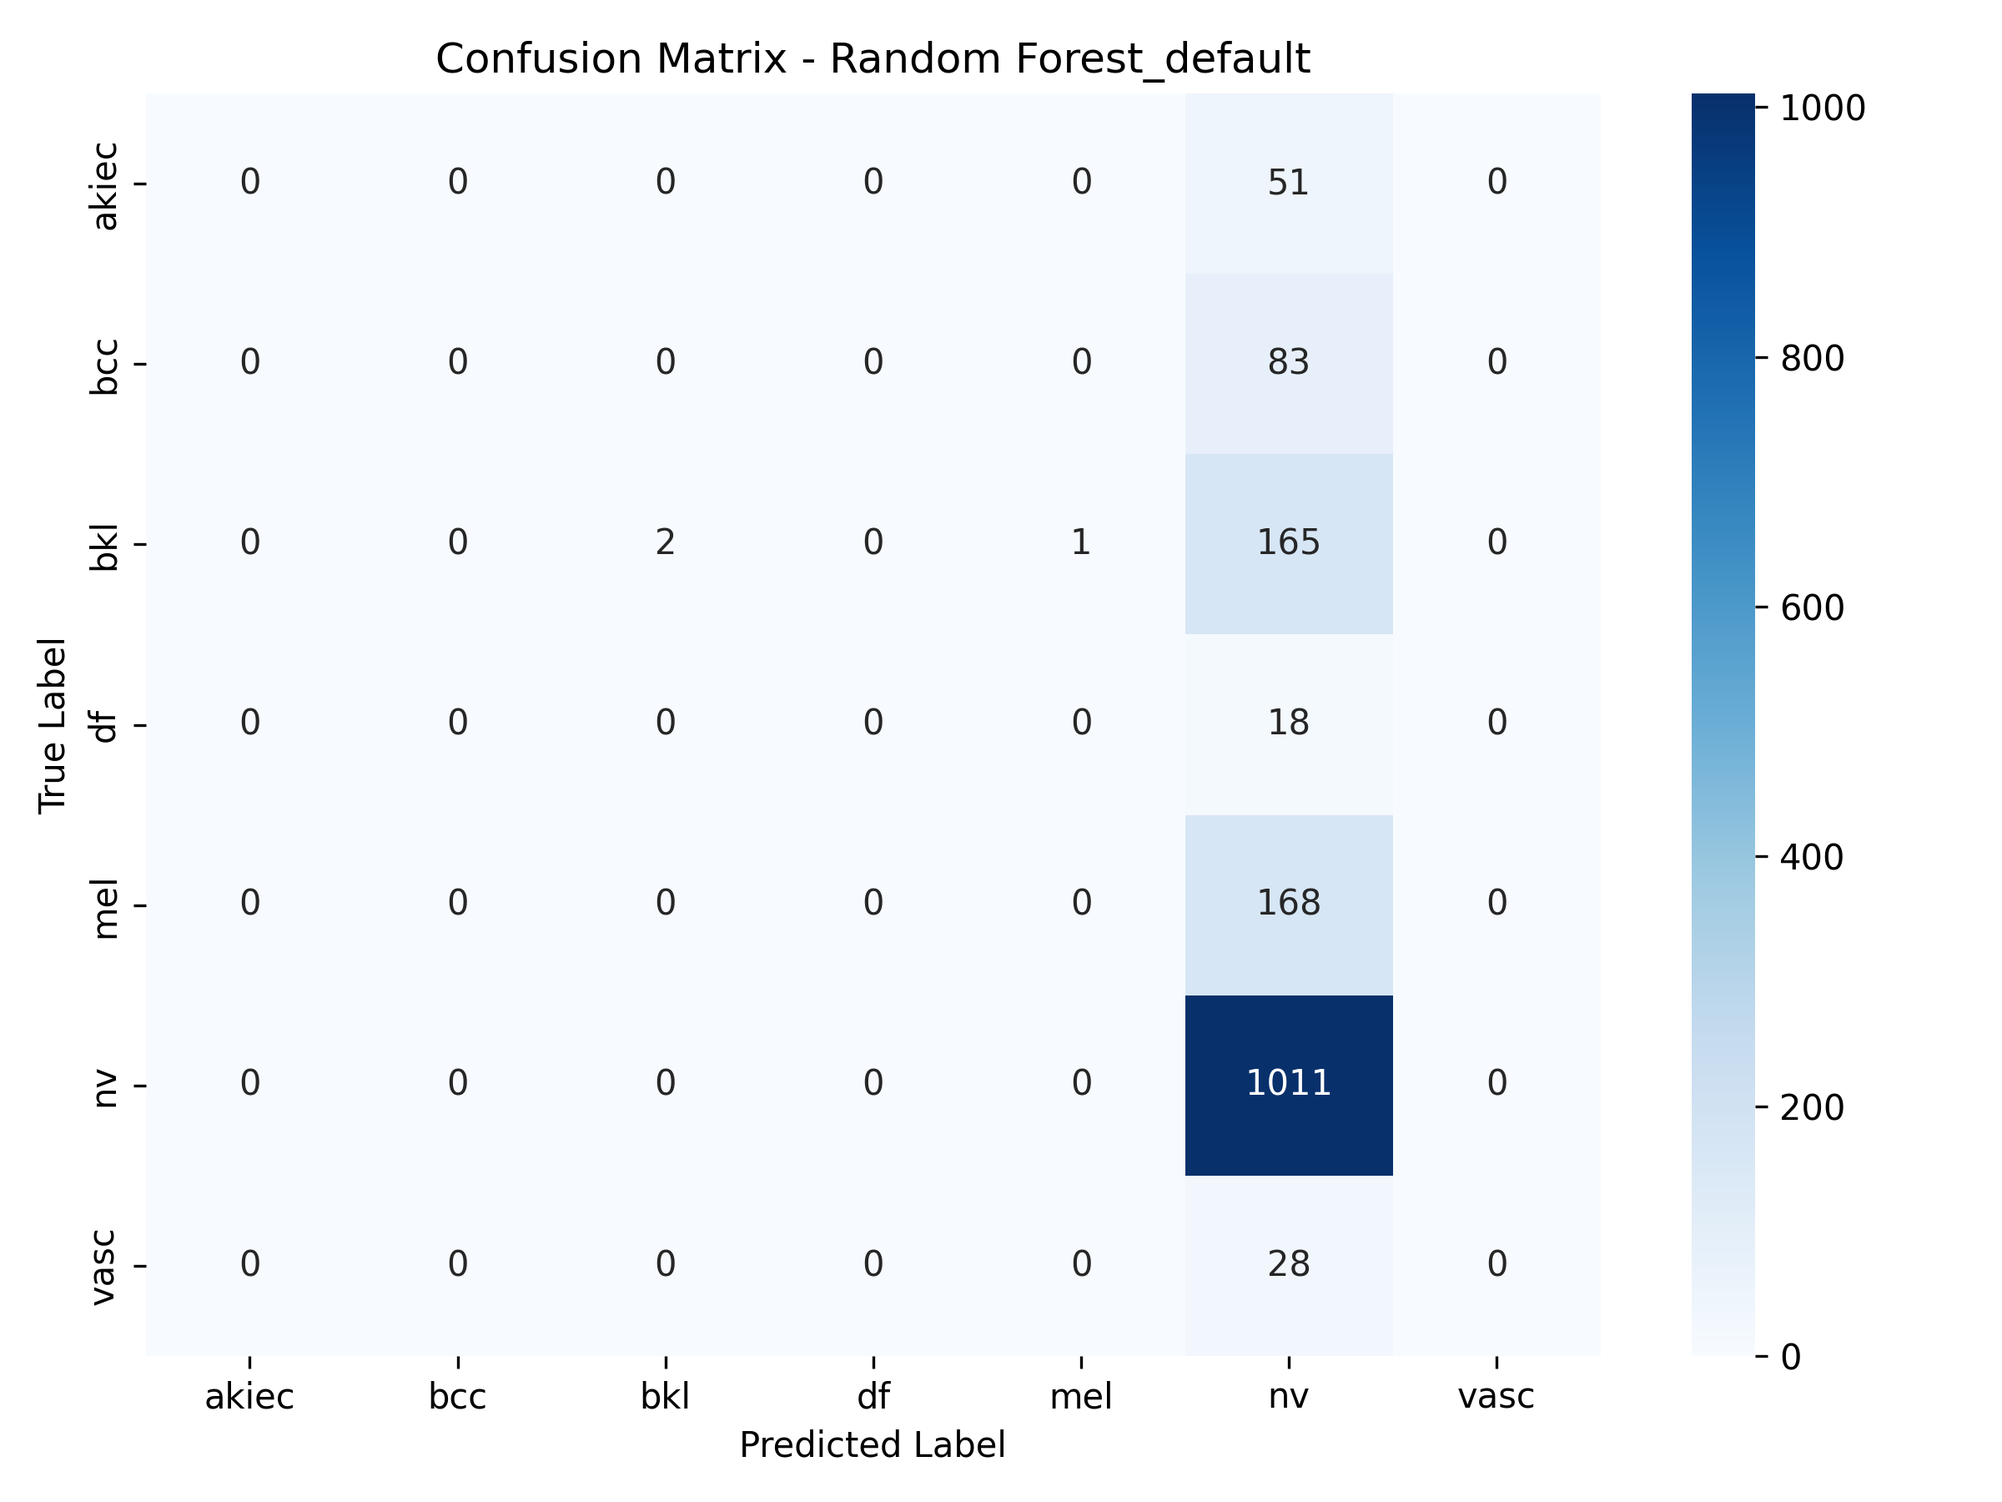
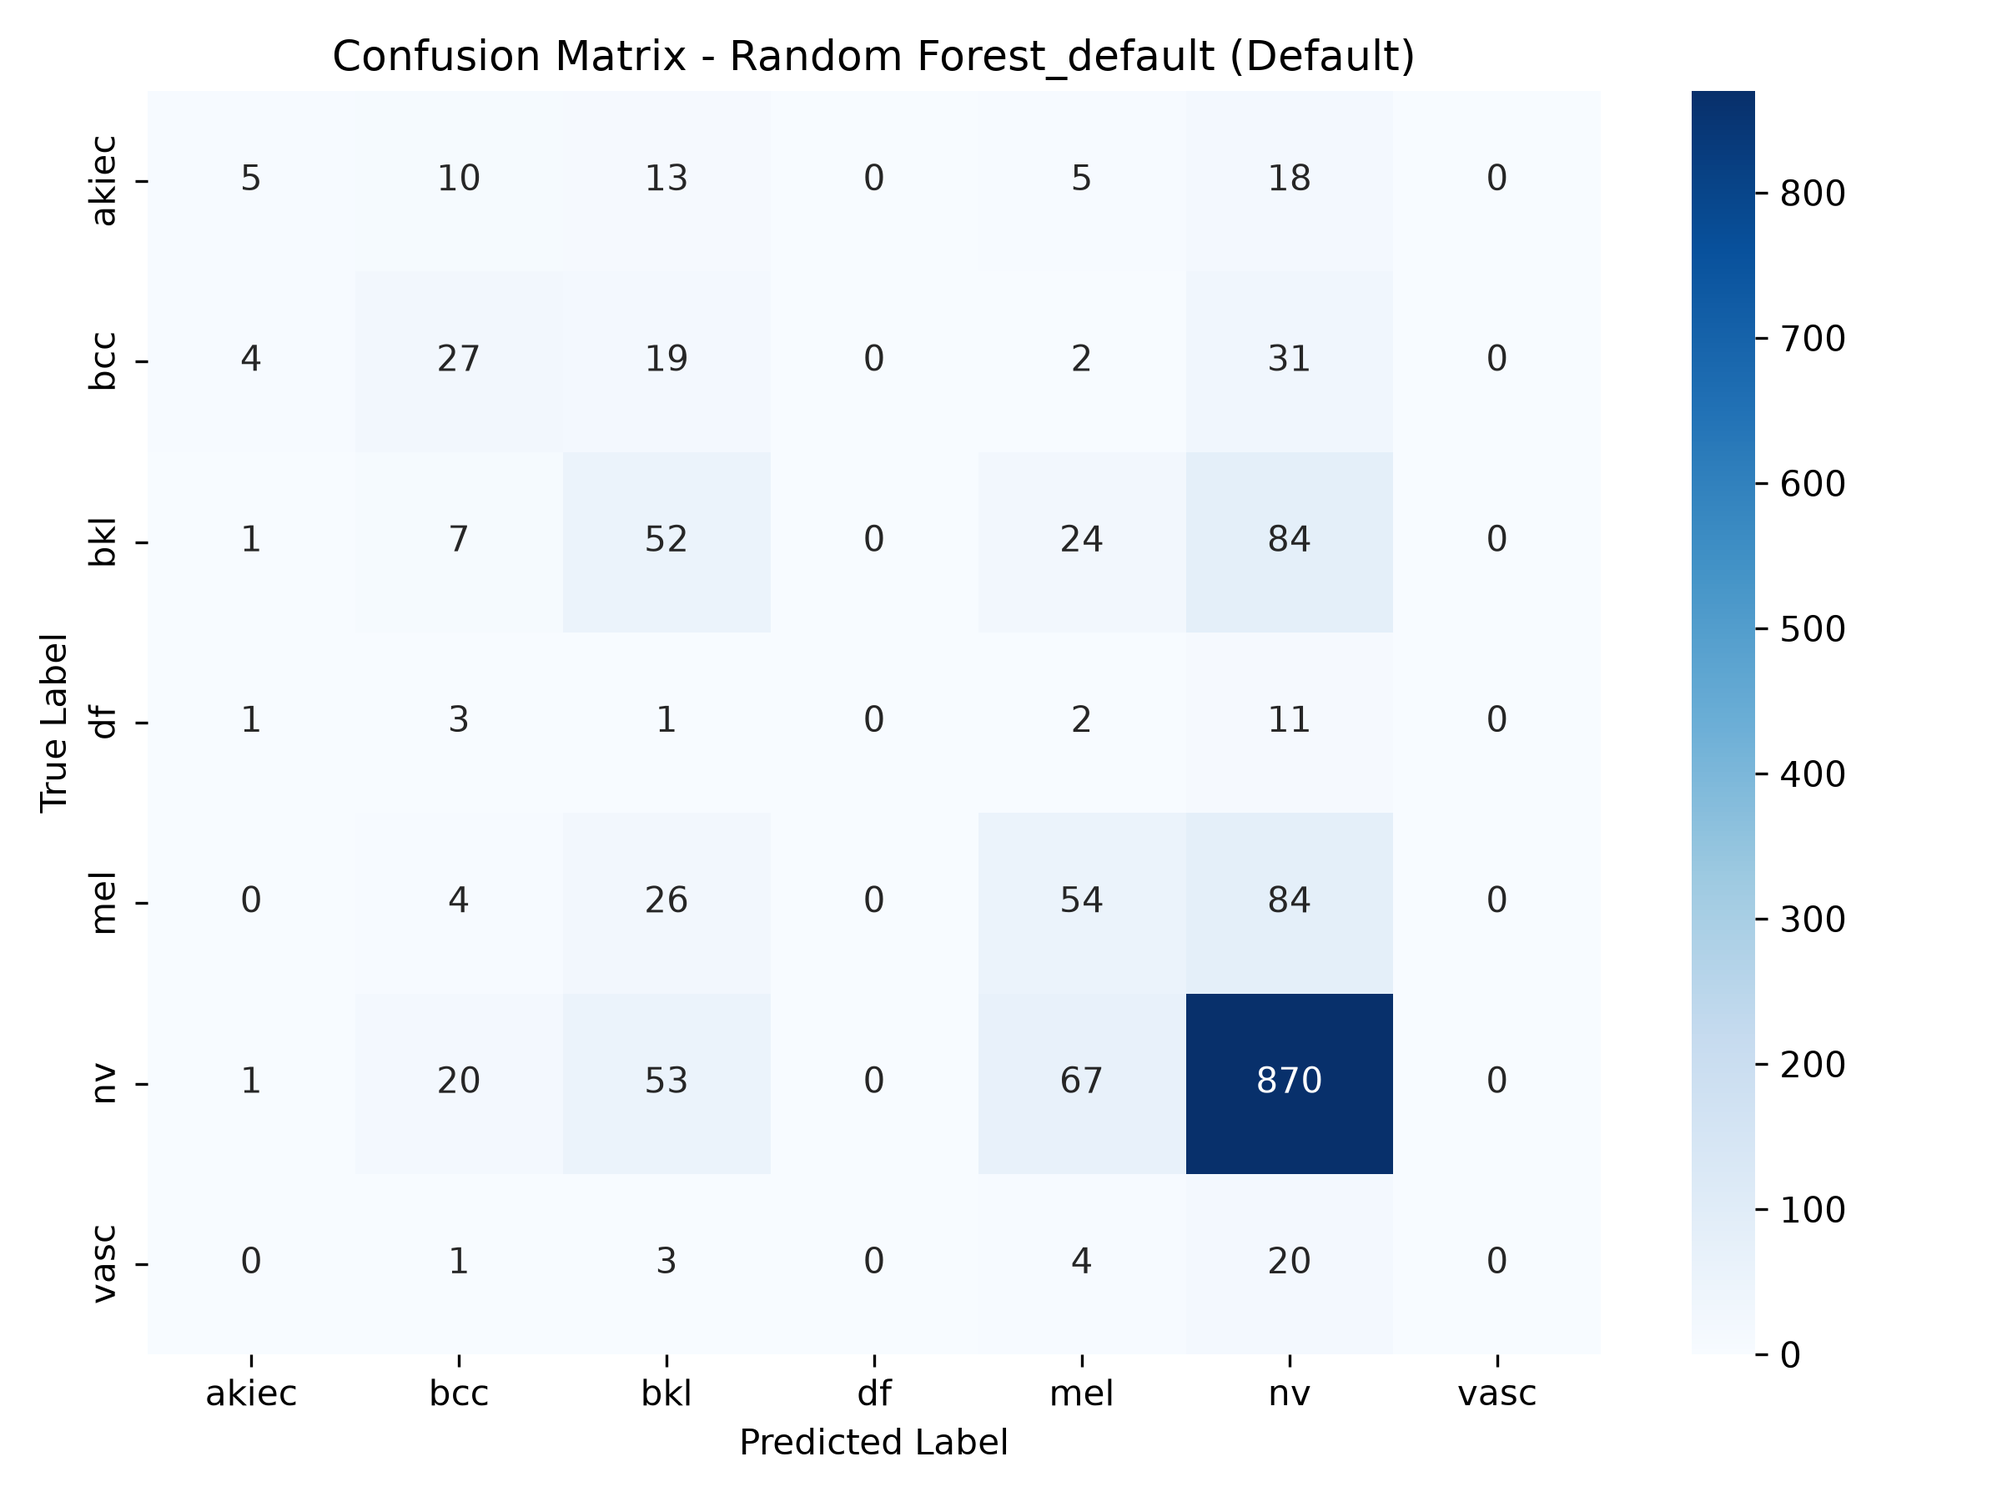
Implemented Module B classical baselines in alignment with dev roadmap, including hyperparameter tuning and evaluation

diff --git a/baselines.py b/baselines.py
@@ -31,63 +31,79 @@ def log_baseline_result(model_name: str, config_desc: str, metrics: dict, runtim
         "runtime_s": round(runtime_s, 2)
     }
 
-    # Append row directly to shared csv without overwriting prior records
-    row_df = pd.DataFrame([log_row])
-    row_df.to_csv(RESULTS_PATH, mode="a", header=False, index=False)
+    new_row_df = pd.DataFrame([log_row])
+    if RESULTS_PATH.exists():
+        results_df = pd.read_csv(RESULTS_PATH)
+        match_idx = results_df.index[
+            (results_df["model_name"] == model_name) &
+            (results_df["module"] == "B") &
+            (results_df["config"] == config_desc)
+        ]
+        # Update existing record in place to prevent duplicate rows on re-runs
+        if not match_idx.empty:
+            for col, val in log_row.items():
+                results_df.loc[match_idx[0], col] = val
+        else:
+            results_df = pd.concat([results_df, new_row_df], ignore_index=True)
+
+        try:
+            results_df.to_csv(RESULTS_PATH, index=False)
+        except PermissionError:
+            fallback_path = RESULTS_PATH.with_name("results_latest.csv")
+            results_df.to_csv(fallback_path, index=False)
+            print(f"Warning: {RESULTS_PATH.name} is locked by an external program. Wrote metrics to {fallback_path.name}")
+    else:
+        new_row_df.to_csv(RESULTS_PATH, index=False)
+
     return log_row
 
 
-def evaluate_and_log(model, model_name: str, config_desc: str, X_val: np.ndarray, y_val: np.ndarray, runtime_s: float) -> dict:
-    # Measure generalization on held-out validation split
-    preds = model.predict(X_val)
-    metrics = compute_metrics(y_val, preds)
-    return log_baseline_result(model_name, config_desc, metrics, runtime_s)
+def evaluate_and_log(model, model_name: str, config_desc: str, X_eval: np.ndarray, y_eval: np.ndarray, runtime_s: float) -> tuple[dict, np.ndarray]:
+    # Measure generalization on held-out evaluation split (val or test)
+    preds = model.predict(X_eval)
+    metrics = compute_metrics(y_eval, preds)
+    logged_row = log_baseline_result(model_name, config_desc, metrics, runtime_s)
+    return logged_row, preds
 
 
-def train_logistic_regression(X_train: np.ndarray, y_train: np.ndarray):
-    # TODO: Wrap LogisticRegression in StandardScaler pipeline, set class_weight="balanced", and fit on X_train
+def train_logistic_regression(X_train: np.ndarray = None, y_train: np.ndarray = None):
     pipeline = Pipeline([
         ("scaler", StandardScaler()),
-        ("classifier", LogisticRegression(class_weight="balanced", random_state=SEED, max_iter=1000))
+        ("classifier", LogisticRegression(class_weight="balanced", random_state=SEED, max_iter=2000, tol=1e-2))
     ])
-    pipeline.fit(X_train, y_train)
+    if X_train is not None and y_train is not None:
+        pipeline.fit(X_train, y_train)
     return pipeline
-    raise NotImplementedError("TODO: Implement Logistic Regression pipeline in baselines.py")
 
 
-def train_knn(X_train: np.ndarray, y_train: np.ndarray):
-    # TODO: Wrap KNeighborsClassifier in StandardScaler pipeline and fit on X_train
+def train_knn(X_train: np.ndarray = None, y_train: np.ndarray = None):
     pipeline = Pipeline([
         ("scaler", StandardScaler()),
         ("classifier", KNeighborsClassifier())
     ])
-    pipeline.fit(X_train, y_train)
+    if X_train is not None and y_train is not None:
+        pipeline.fit(X_train, y_train)
     return pipeline
-    raise NotImplementedError("TODO: Implement KNN pipeline in baselines.py")
 
 
-def train_svm(X_train: np.ndarray, y_train: np.ndarray):
-    # TODO: Wrap SVC in StandardScaler pipeline, configure kernel and class_weight="balanced", and fit on X_train
+def train_svm(X_train: np.ndarray = None, y_train: np.ndarray = None):
     pipeline = Pipeline([
         ("scaler", StandardScaler()),
         ("classifier", SVC(class_weight="balanced", random_state=SEED))
     ])
-    pipeline.fit(X_train, y_train)
+    if X_train is not None and y_train is not None:
+        pipeline.fit(X_train, y_train)
     return pipeline
-    
-    raise NotImplementedError("TODO: Implement SVM pipeline in baselines.py")
 
 
-def train_random_forest(X_train: np.ndarray, y_train: np.ndarray):
-    # TODO: Initialize RandomForestClassifier with class_weight="balanced" and random_state=SEED, and fit on X_train
+def train_random_forest(X_train: np.ndarray = None, y_train: np.ndarray = None):
     rf = RandomForestClassifier(class_weight="balanced", random_state=SEED)
-    rf.fit(X_train, y_train)
+    if X_train is not None and y_train is not None:
+        rf.fit(X_train, y_train)
     return rf
-    raise NotImplementedError("TODO: Implement Random Forest in baselines.py")
 
 
 def tune_model(estimator, param_grid: dict, X_train: np.ndarray, y_train: np.ndarray, cv_splits: int = 5):
-    # TODO: Configure StratifiedKFold and GridSearchCV optimizing balanced_accuracy scoring
     cv = StratifiedKFold(n_splits=cv_splits, shuffle=True, random_state=SEED)
     grid_search = GridSearchCV(
         estimator=estimator,
@@ -99,11 +115,27 @@ def tune_model(estimator, param_grid: dict, X_train: np.ndarray, y_train: np.nda
     )
     grid_search.fit(X_train, y_train)
     return grid_search.best_estimator_, grid_search.best_params_
-    raise NotImplementedError("TODO: Implement hyperparameter tuning in baselines.py")
 
 
-def export_confusion_matrix(y_true, y_pred, model_name: str, output_path: Path = None):
-    # TODO: Plot confusion matrix heatmap using seaborn and save to figures/
+def is_best_model(model_name: str, balanced_accuracy: float, split_name: str = "val") -> bool:
+    # Check central results log to determine if this configuration achieves peak balanced accuracy
+    if not RESULTS_PATH.exists():
+        return True
+    try:
+        results_df = pd.read_csv(RESULTS_PATH)
+        history = results_df[(results_df["model_name"] == model_name) & (results_df["module"] == "B")]
+        if split_name == "test":
+            history = history[history["config"].astype(str).str.startswith("test_")]
+        else:
+            history = history[~history["config"].astype(str).str.startswith("test_")]
+        if history.empty:
+            return True
+        return balanced_accuracy >= history["balanced_accuracy"].max()
+    except Exception:
+        return True
+
+
+def export_confusion_matrix(y_true, y_pred, model_name: str, output_path: Path = None, title_suffix: str = ""):
     if output_path is None:
         output_dir = PROJECT_ROOT / "figures"
         output_dir.mkdir(parents=True, exist_ok=True)
@@ -121,7 +153,10 @@ def export_confusion_matrix(y_true, y_pred, model_name: str, output_path: Path =
         xticklabels=labels,
         yticklabels=labels
     )
-    plt.title(f"Confusion Matrix - {model_name}")
+    title_text = f"Confusion Matrix - {model_name}"
+    if title_suffix:
+        title_text += f" ({title_suffix})"
+    plt.title(title_text)
     plt.xlabel("Predicted Label")
     plt.ylabel("True Label")
     plt.tight_layout()
@@ -135,20 +170,24 @@ if __name__ == "__main__":
     parser = argparse.ArgumentParser(description="Module B: Classical Machine Learning Baselines")
     parser.add_argument("--model", type=str, choices=["lr", "knn", "svm", "rf", "all"], default="all", help="Model architecture to train")
     parser.add_argument("--tune", action="store_true", help="Execute hyperparameter grid search")
+    parser.add_argument("--split", type=str, choices=["val", "test"], default="val", help="Evaluation partition (val or test)")
+    parser.add_argument("--eval-test", action="store_true", help="Shortcut to evaluate on the frozen test partition")
     args = parser.parse_args()
+
+    eval_split = "test" if args.eval_test else args.split
 
     print("Module B: Loading classical feature arrays from Module A...")
     # Ingest 64-component PCA projections and string target labels
     X_train, y_train = get_classical_data(split_name="train")
-    X_val, y_val = get_classical_data(split_name="val")
-    print(f"Loaded train features: {X_train.shape}, validation features: {X_val.shape}")
+    X_eval, y_eval = get_classical_data(split_name=eval_split)
+    print(f"Loaded train features: {X_train.shape}, {eval_split} features: {X_eval.shape}")
 
-    # TODO: Execute baseline training and hyperparameter search routines
     models_to_run = ["lr", "knn", "svm", "rf"] if args.model == "all" else [args.model]
     param_grids = {
         "lr": {
             "classifier__C": [0.01, 0.1, 1.0, 10.0],
-            "classifier__solver": ["lbfgs", "saga"]
+            "classifier__penalty": ["l1", "l2"],
+            "classifier__solver": ["saga"]
         },
         "knn": {
             "classifier__n_neighbors": [3, 5, 7, 11, 15, 21, 25],
@@ -175,34 +214,52 @@ if __name__ == "__main__":
     for model_key in models_to_run:
         display_name, build_fn = model_registry[model_key]
         print(f"\n==========================================")
-        print(f" Running {display_name} (Tuning: {args.tune})")
+        print(f" Running {display_name} (Tuning: {args.tune}, Split: {eval_split})")
         print(f"==========================================")
 
         start_time = time.time()
 
         if args.tune:
-            # Instantiate pipeline/estimator skeleton to pass into GridSearchCV
-            base_model = build_fn(X_train, y_train)  # Dummy fit to generate estimator instance
+            # Pass unfitted estimator to avoid redundant initial fitting
+            base_model = build_fn()
             fitted_model, best_params = tune_model(base_model, param_grids[model_key], X_train, y_train)
-            config_desc = f"tuned_{best_params}"
+            base_config = f"tuned_{best_params}"
         else:
             fitted_model = build_fn(X_train, y_train)
-            config_desc = "default"
+            base_config = "default"
 
+        config_desc = f"test_{base_config}" if eval_split == "test" else base_config
         elapsed_time = time.time() - start_time
 
-        # Record validation performance in results.csv
-        logged_record = evaluate_and_log(
+        # Record evaluation performance in results.csv and retrieve precomputed predictions
+        logged_record, eval_predictions = evaluate_and_log(
             model=fitted_model,
             model_name=display_name,
             config_desc=config_desc,
-            X_val=X_val,
-            y_val=y_val,
+            X_eval=X_eval,
+            y_eval=y_eval,
             runtime_s=elapsed_time
         )
         print(f"Results logged: {logged_record}")
 
-        # Export confusion matrix heatmap
-        val_predictions = fitted_model.predict(X_val)
-        matrix_name = f"{display_name}_{'tuned' if args.tune else 'default'}"
-        export_confusion_matrix(y_val, val_predictions, matrix_name)
+        # Export configuration-specific heatmap
+        config_suffix = "tuned" if args.tune else "default"
+        matrix_suffix = f"{eval_split}_{config_suffix}" if eval_split == "test" else config_suffix
+        title_tag = f"Test - {config_suffix.capitalize()}" if eval_split == "test" else config_suffix.capitalize()
+        export_confusion_matrix(
+            y_eval,
+            eval_predictions,
+            model_name=f"{display_name}_{matrix_suffix}",
+            title_suffix=title_tag
+        )
+
+        # Automatically export canonical heatmap for the best model per architecture
+        if is_best_model(display_name, logged_record["balanced_accuracy"], split_name=eval_split):
+            canonical_name = f"{display_name}_test" if eval_split == "test" else display_name
+            canonical_title = f"Test Best - {config_suffix.capitalize()}" if eval_split == "test" else f"Best - {config_suffix.capitalize()}"
+            export_confusion_matrix(
+                y_eval,
+                eval_predictions,
+                model_name=canonical_name,
+                title_suffix=canonical_title
+            )

diff --git a/readme.md b/readme.md
@@ -131,6 +131,22 @@ Models evaluated:
 - Support Vector Machines (SVM)
 - Random Forest
 
+#### CLI Commands
+
+```bash
+# Execute untuned baseline evaluation for all 4 models on validation split
+python baselines.py --model all
+
+# Execute 5-fold cross-validation grid search and export canonical heatmaps
+python baselines.py --model all --tune
+
+# Train and tune a specific model architecture (lr, knn, svm, or rf)
+python baselines.py --model rf --tune
+
+# Evaluate selected tuned models on the test split
+python baselines.py --model all --tune --eval-test
+```
+
 All estimators consume features via [`get_classical_data`](file:///d:/F2026/DS2/Main%20Branch/preprocess.py#L168) and log runs to [results.csv](file:///d:/F2026/DS2/Main%20Branch/results.csv) using [`compute_metrics`](file:///d:/F2026/DS2/Main%20Branch/metrics.py#L10).
 
 Detailed baseline modeling instructions and tuning protocols are documented in [docs/Module B development roadmap.md](file:///d:/F2026/DS2/Main%20Branch/docs/Module%20B%20development%20roadmap.md).
@@ -155,11 +171,30 @@ Detailed neural network architecture guidelines, training loops, and transfer le
 
 Experimental results logged in [results.csv](file:///d:/F2026/DS2/Main%20Branch/results.csv):
 
+### Validation Split Benchmarks
+
 | Model | Module | Config | Balanced Accuracy | Accuracy | Macro F1 | Runtime (s) |
 |---|---|---|---|---|---|---|
 | Random Forest | A | rf_resize_direct | 0.2740 | 0.6614 | 0.2752 | 1.88 |
 | Random Forest | A | rf_resize_letterbox | 0.2519 | 0.6418 | 0.2498 | 1.95 |
 | Random Forest | A | rf_resize_centercrop | 0.2704 | 0.6496 | 0.2777 | 1.98 |
+| Logistic Regression | B | default | 0.2800 | 0.3576 | 0.2212 | 0.04 |
+| KNN | B | default | 0.1796 | 0.6437 | 0.1666 | 0.01 |
+| SVM | B | default | 0.3169 | 0.5056 | 0.2737 | 2.82 |
+| Random Forest | B | default | 0.2735 | 0.6601 | 0.2809 | 1.71 |
+| Logistic Regression | B | tuned_{'classifier__C': 0.01, 'classifier__penalty': 'l1', 'classifier__solver': 'saga'} | 0.3078 | 0.2980 | 0.2134 | 37.82 |
+| KNN | B | tuned_{'classifier__n_neighbors': 3, 'classifier__weights': 'distance'} | 0.1954 | 0.6339 | 0.1923 | 0.83 |
+| SVM | B | tuned_{'classifier__C': 1.0, 'classifier__kernel': 'rbf'} | 0.3169 | 0.5056 | 0.2737 | 58.37 |
+| Random Forest | B | tuned_{'max_depth': 10, 'min_samples_split': 5, 'n_estimators': 200} | 0.3505 | 0.5809 | 0.3179 | 20.98 |
+
+### Test Benchmarks
+
+| Model | Module | Config | Balanced Accuracy | Accuracy | Macro F1 | Runtime (s) |
+|---|---|---|---|---|---|---|
+| Logistic Regression | B | test_tuned_{'classifier__C': 0.01, 'classifier__penalty': 'l1', 'classifier__solver': 'saga'} | 0.3108 | 0.3129 | 0.2149 | 37.74 |
+| KNN | B | test_tuned_{'classifier__n_neighbors': 3, 'classifier__weights': 'distance'} | 0.1819 | 0.6585 | 0.1829 | 0.78 |
+| SVM | B | test_tuned_{'classifier__C': 1.0, 'classifier__kernel': 'rbf'} | 0.3244 | 0.5087 | 0.2750 | 66.97 |
+| Random Forest | B | test_tuned_{'max_depth': 10, 'min_samples_split': 5, 'n_estimators': 200} | 0.2952 | 0.5666 | 0.2685 | 21.84 |
 
 ---
 

diff --git a/docs/Module B development roadmap.md b/docs/Module B development roadmap.md
@@ -99,7 +99,7 @@ Use `X_dummy` and `y_dummy` to verify that scikit-learn pipelines run cleanly be
 
 ## 6. Deliverables Checklist
 
-- [ ] [baselines.py](file:///d:/F2026/DS2/Main%20Branch/baselines.py) fully implemented for all four estimators.
-- [ ] Populated rows in [results.csv](file:///d:/F2026/DS2/Main%20Branch/results.csv) comparing default vs tuned baselines.
-- [ ] Exported confusion matrix heatmaps in `figures/`.
+- [x] [baselines.py](file:///d:/F2026/DS2/Main%20Branch/baselines.py) fully implemented for all four estimators.
+- [x] Populated rows in [results.csv](file:///d:/F2026/DS2/Main%20Branch/results.csv) comparing default vs tuned baselines.
+- [x] Exported confusion matrix heatmaps in `figures/`.
 - [ ] Written baseline methodology and results discussion drafted for the final report.
